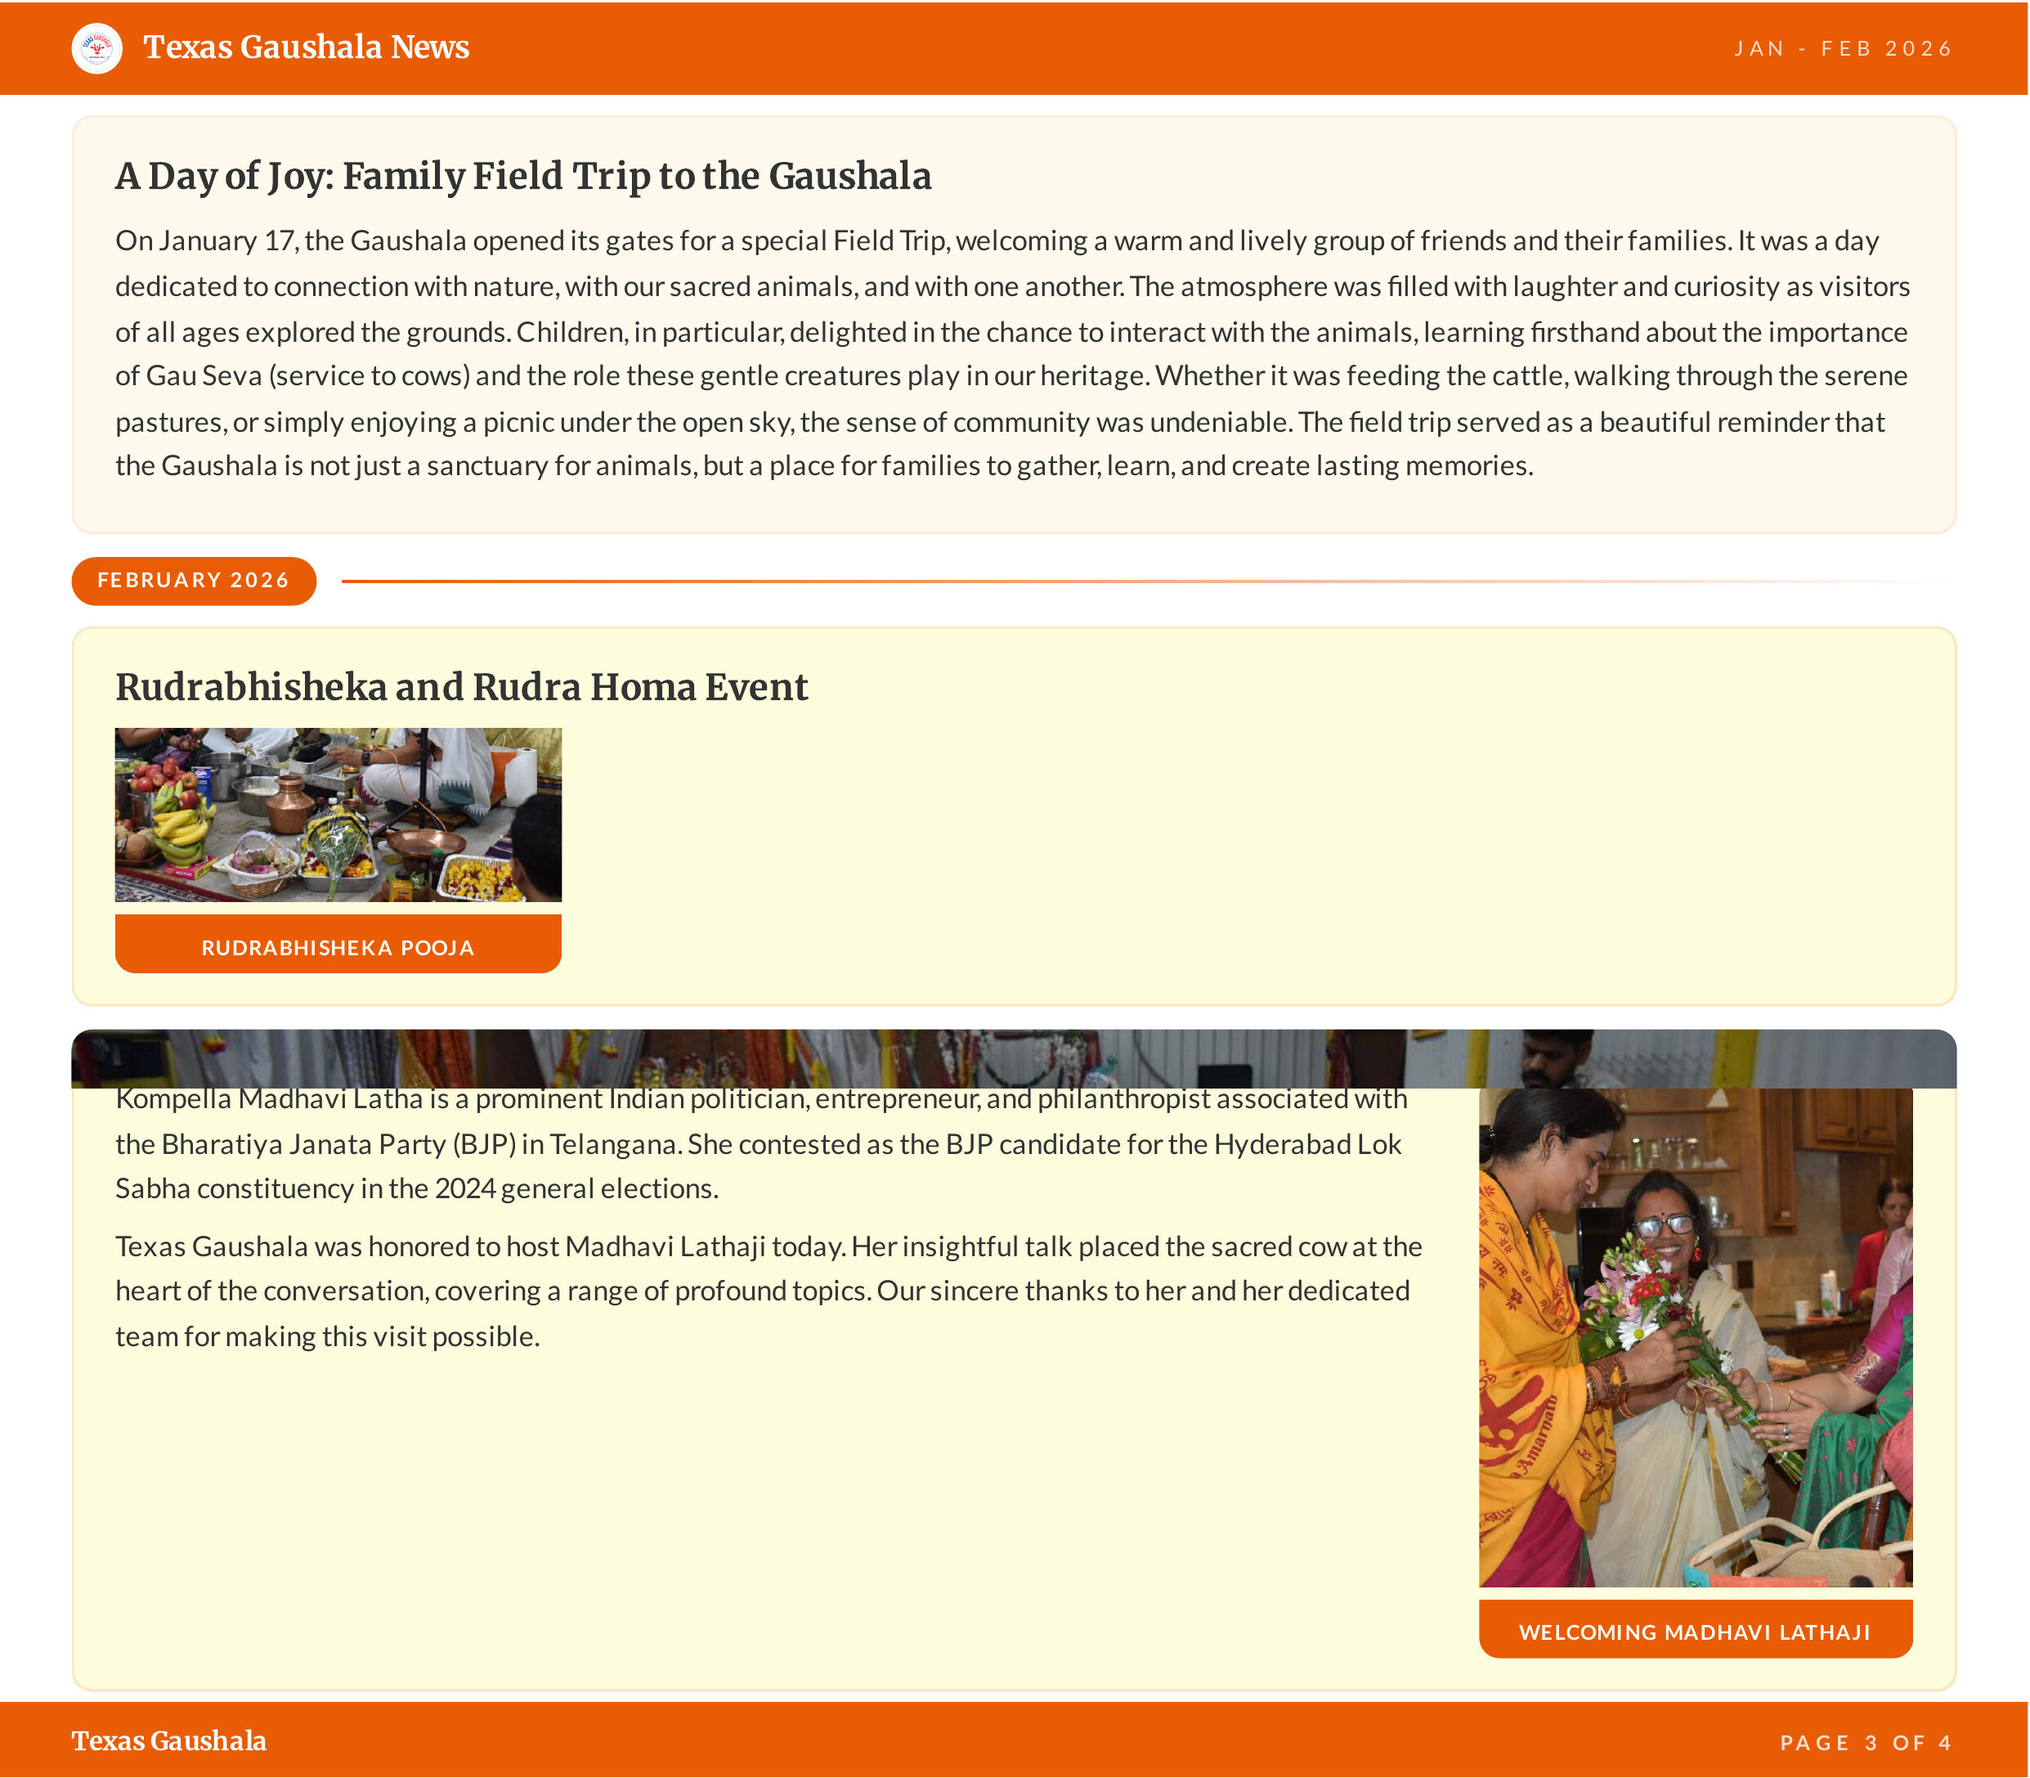
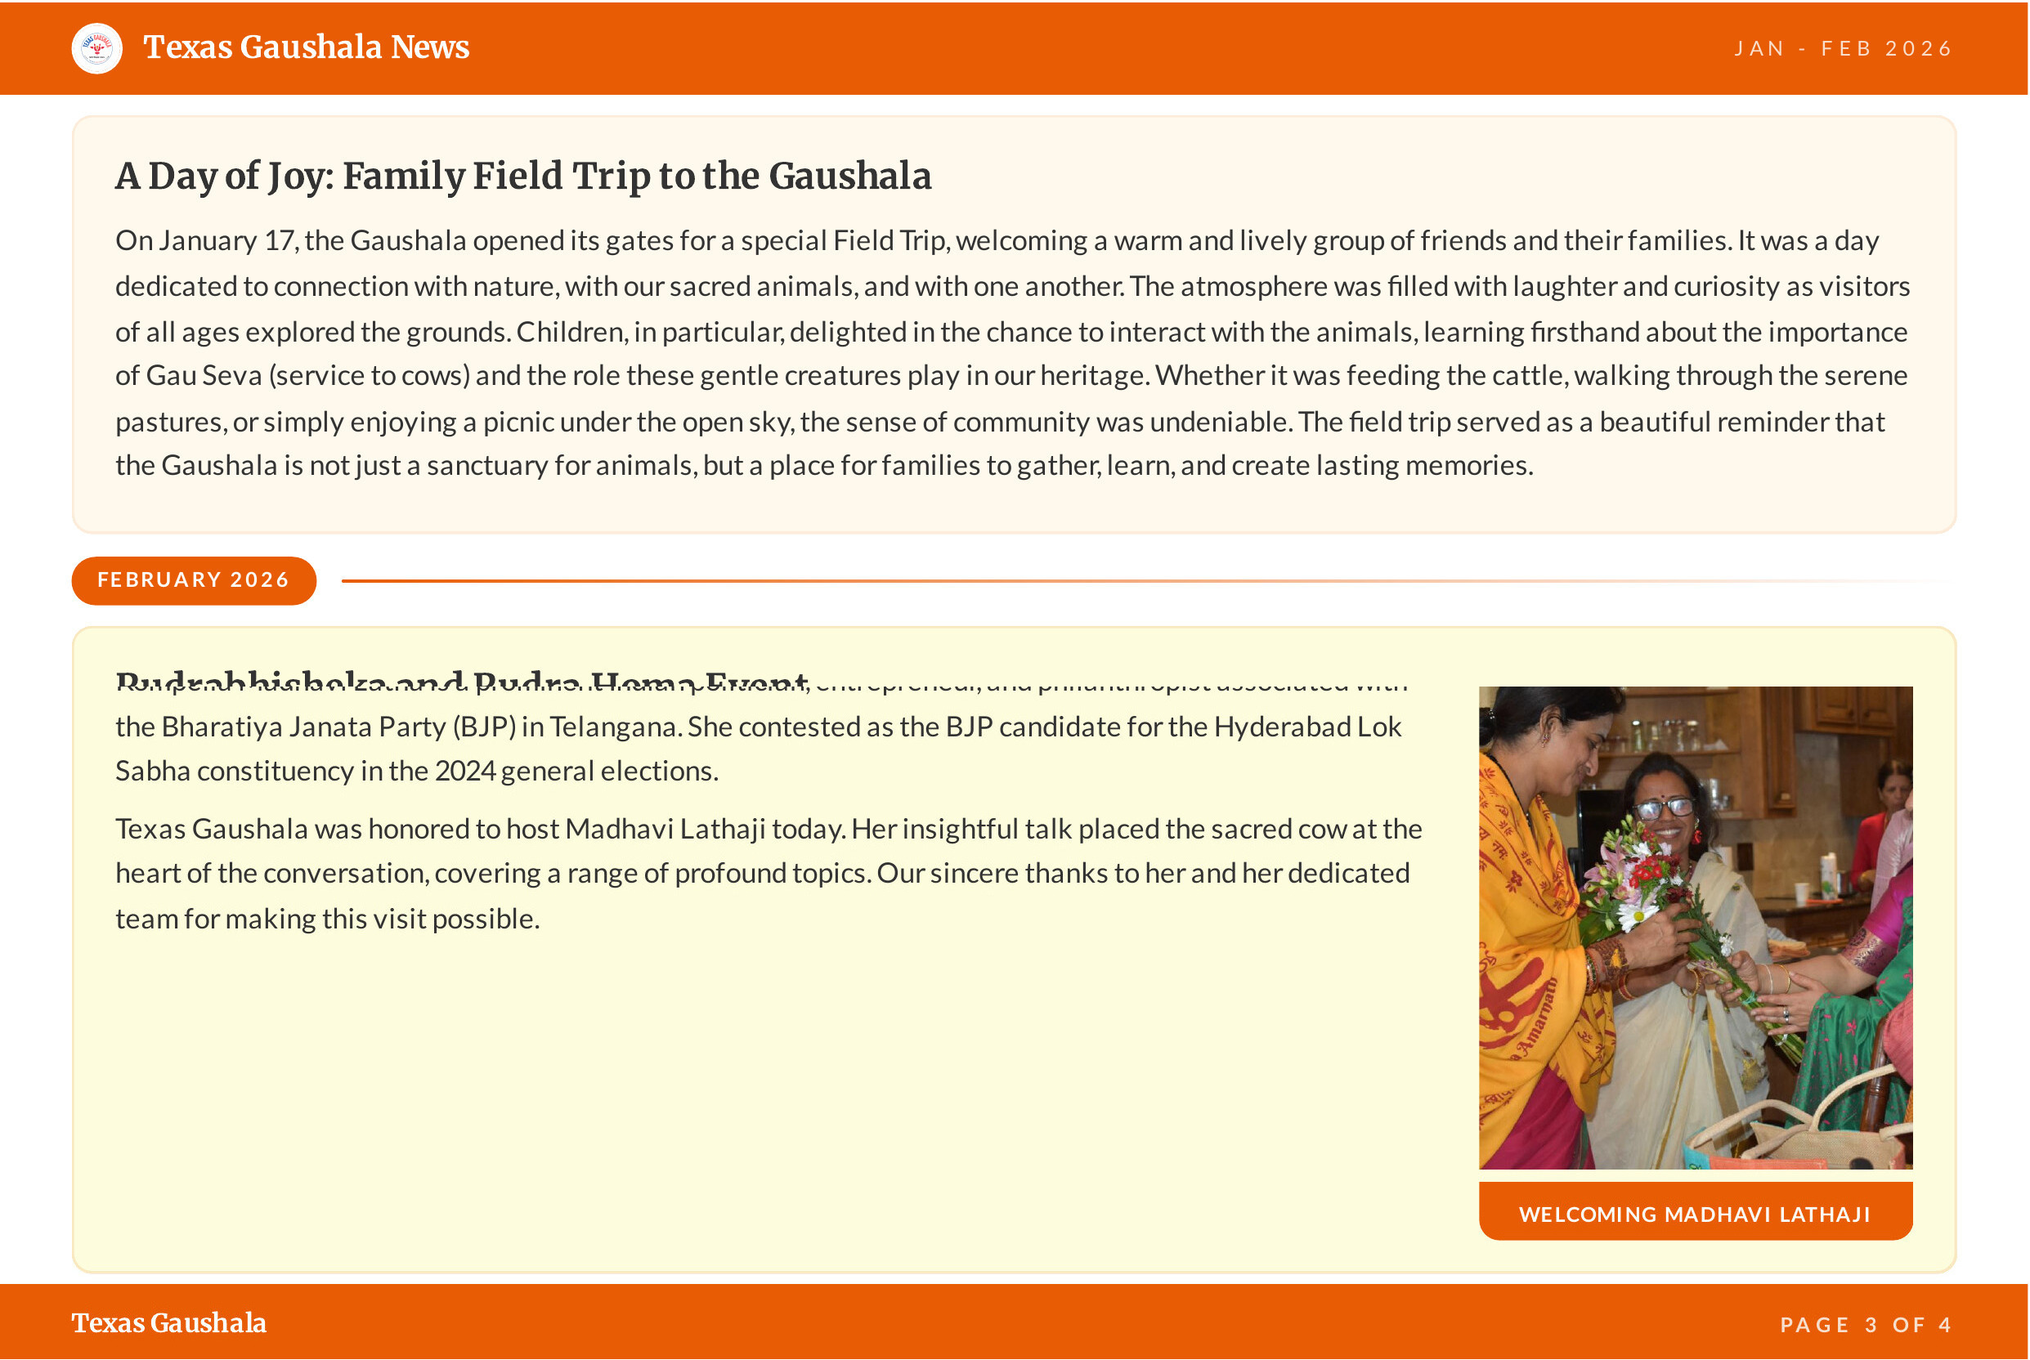
fix: crop out ALL remaining photos from page 3 (ceremony + madhavi welcome), reposition everything

diff --git a/index.html b/index.html
@@ -158,33 +158,29 @@ The morning was dedicated to the time-honored tradition of Gau Pooja. Members of
   <img class="bg" src="images_new/page-3.jpg">
 
   <!-- P3 Images -->
-  <div class="iz" id="img-logo-3" data-label="Logo P3" style="left:1.5%;top:0.5%;width:3.5%;height:4.5%;" onclick="si(this)"><span class="lb">Logo</span></div>
-  <div class="iz" id="img-madhavi-welcome" data-label="Madhavi Welcome" style="left:69%;top:66%;width:25%;height:24%;" onclick="si(this)"><span class="lb">Madhavi Welcome</span></div>
+  <div class="iz" id="img-logo-3" data-label="Logo P3" style="left:1.5%;top:0.8%;width:4.5%;height:6%;" onclick="si(this)"><span class="lb">Logo</span></div>
 
   <!-- P3 Text -->
-  <div class="tz" contenteditable="true" style="left:4.5%;top:1.2%;width:20%;height:3.5%;font-size:12px;font-weight:700;">Texas Gaushala News</div>
-  <div class="tz" contenteditable="true" style="left:82%;top:1.2%;width:16%;height:2.5%;font-size:8px;letter-spacing:2px;text-align:right;">JAN - FEB 2026</div>
-  <div class="tz" contenteditable="true" style="left:3%;top:8%;width:50%;height:4%;font-size:16px;font-weight:700;font-family:Georgia,serif;">A Day of Joy: Family Field Trip to the Gaushala</div>
-  <div class="tz" contenteditable="true" style="left:3%;top:12%;width:50%;height:18%;font-size:8.5px;line-height:1.55;font-family:Georgia,serif;">On January 17, the Gaushala opened its gates for a special Field Trip, welcoming a warm and lively group of friends and their families. It was a day dedicated to connection with nature, with our sacred animals, and with one another. The atmosphere was filled with laughter and curiosity as visitors of all ages explored the grounds. Children, in particular, delighted in the chance to interact with the animals, learning firsthand about the importance of Gau Seva (service to cows) and the role these gentle creatures play in our heritage. Whether it was feeding the cattle, walking through the serene pastures, or simply enjoying a picnic under the open sky, the sense of community was undeniable. The field trip served as a beautiful reminder that the Gaushala is not just a sanctuary for animals, but a place for families to gather, learn, and create lasting memories.</div>
+  <div class="tz" contenteditable="true" style="left:4.5%;top:1.5%;width:20%;height:5%;font-size:12px;font-weight:700;">Texas Gaushala News</div>
+  <div class="tz" contenteditable="true" style="left:82%;top:1.5%;width:16%;height:3.5%;font-size:8px;letter-spacing:2px;text-align:right;">JAN - FEB 2026</div>
+  <div class="tz" contenteditable="true" style="left:3%;top:10%;width:50%;height:6%;font-size:16px;font-weight:700;font-family:Georgia,serif;">A Day of Joy: Family Field Trip to the Gaushala</div>
+  <div class="tz" contenteditable="true" style="left:3%;top:16%;width:50%;height:28%;font-size:8.5px;line-height:1.55;font-family:Georgia,serif;">On January 17, the Gaushala opened its gates for a special Field Trip, welcoming a warm and lively group of friends and their families. It was a day dedicated to connection with nature, with our sacred animals, and with one another. The atmosphere was filled with laughter and curiosity as visitors of all ages explored the grounds. Children, in particular, delighted in the chance to interact with the animals, learning firsthand about the importance of Gau Seva (service to cows) and the role these gentle creatures play in our heritage. Whether it was feeding the cattle, walking through the serene pastures, or simply enjoying a picnic under the open sky, the sense of community was undeniable. The field trip served as a beautiful reminder that the Gaushala is not just a sanctuary for animals, but a place for families to gather, learn, and create lasting memories.</div>
   <!-- Field Trip photo -->
-  <div class="iz" id="img-field-trip" data-label="Field Trip" style="left:56%;top:8%;width:40%;height:22%;border-radius:6px;overflow:hidden;" onclick="si(this)">
+  <div class="iz" id="img-field-trip" data-label="Field Trip" style="left:56%;top:10%;width:40%;height:34%;border-radius:6px;overflow:hidden;" onclick="si(this)">
     <img class="rp" src="images_new/field-trip.jpg" style="width:100%;height:100%;object-fit:cover;object-position:center top;position:absolute;top:0;left:0;">
     <span class="lb">Field Trip</span>
   </div>
   <!-- Rudrabhisheka - visible cream card -->
-  <div style="position:absolute;left:2%;top:31%;width:96%;height:27%;background:#FDFCDD;z-index:10;border-radius:4px;padding:1.5% 2%;box-sizing:border-box;">
+  <div style="position:absolute;left:2%;top:46%;width:96%;height:24%;background:#FDFCDD;z-index:10;border-radius:4px;padding:1.5% 2%;box-sizing:border-box;">
     <div contenteditable="true" style="font-size:10px;font-weight:700;letter-spacing:1px;color:#555;margin-bottom:6px;">FEBRUARY 2026</div>
     <div contenteditable="true" style="font-size:18px;font-weight:700;font-family:Georgia,serif;color:#333;margin-bottom:8px;">Rudrabhisheka and Rudra Homa Event</div>
     <div contenteditable="true" style="font-size:13px;line-height:1.6;font-family:Georgia,serif;color:#333;">Texas Gaushala hosted Rudrabhisheka and Rudra Homa event on 14th Feb 2026 by the SVBF temple. About 10 Ritwiks chanted the Veda mantras. ~100 people attended the event. Lunch was served at the end of the event. It was very special event considering the day was on a Shani Trayodashi and one day prior to Maha Shivaratri. It was also special being on a Valentine's day and this was the 3rd Quarterly event at Texas Gaushala.</div>
   </div>
   <!-- Madhavi section - cream bg card with visible text -->
-  <div style="position:absolute;left:2%;top:59%;width:96%;height:34%;background:#FDFCDD;z-index:10;border-radius:4px;padding:1.5% 2%;box-sizing:border-box;">
+  <div style="position:absolute;left:2%;top:72%;width:96%;height:24%;background:#FDFCDD;z-index:10;border-radius:4px;padding:1.5% 2%;box-sizing:border-box;">
     <div contenteditable="true" style="font-size:18px;font-weight:700;font-family:Georgia,serif;color:#333;margin-bottom:8px;">Madhavi Lathaji Visited Gaushala</div>
     <div contenteditable="true" style="font-size:13px;line-height:1.6;font-family:Georgia,serif;color:#333;">Kompella Madhavi Latha is a prominent Indian politician, entrepreneur, and philanthropist associated with the Bharatiya Janata Party (BJP) in Telangana. She contested as the BJP candidate for the Hyderabad Lok Sabha constituency in the 2024 general elections. Texas Gaushala was honored to host Madhavi Lathaji today. Her insightful talk placed the sacred cow at the heart of the conversation, covering a range of profound topics. Our sincere thanks to her and her dedicated team for making this visit possible.</div>
   </div>
-  <div class="tz" contenteditable="true" style="left:69%;top:91%;width:22%;height:3.5%;font-size:7px;font-weight:700;letter-spacing:1px;text-align:center;">WELCOMING MADHAVI LATHAJI</div>
-  <div class="tz" contenteditable="true" style="left:2%;top:95.5%;width:12%;height:2.5%;font-size:10px;font-weight:700;">Texas Gaushala</div>
-  <div class="tz" contenteditable="true" style="left:85%;top:95.5%;width:13%;height:2%;font-size:7px;letter-spacing:2px;text-align:right;">PAGE 3 OF 4</div>
 </div>
 
 <!-- ===== PAGE 4 ===== -->
